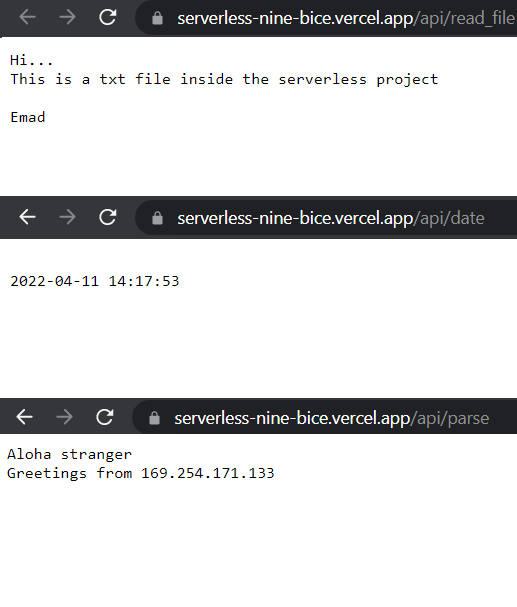
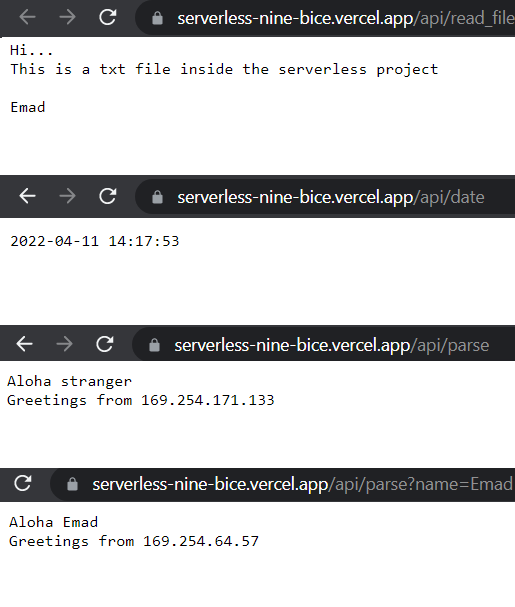
thunder client, and my colleagues' work

diff --git a/api/to_do.py b/api/to_do.py
@@ -1,0 +1,108 @@
+# from Sara
+
+import cgi
+from http.server import BaseHTTPRequestHandler, HTTPServer
+
+
+tasklist = ['Task 1', 'Task 2', 'Task 3', 'Task 4']
+
+
+class requestHandler(BaseHTTPRequestHandler):
+
+    def do_GET(self):
+        """ will handle GET requests and send back the response """
+        if self.path.endswith('/tasklist'):
+            self.send_response(200)
+            self.send_header('Content-type', 'text/html')
+            self.end_headers()
+
+            output = ''
+            output += '<html><body>'
+            output += '<h1>Task List</h1>'
+            output += '<h3> <a href="/tasklist/new"> Add New Task </a> </h3>'
+            for task in tasklist:
+                output += task
+                output += '<a/ href = "tasklist/%s/remove">X</a>' % task
+                output += '</br>'
+            output += '</body></html>'
+
+            self.wfile.write(output.encode())
+
+        if self.path.endswith('/tasklist/new'):
+            self.send_response(200)
+            self.send_header('Content-type', 'text/html')
+            self.end_headers()
+
+            output = ''
+            output += '<html><body>'
+            output += '<h1>Add a new task</h1>'
+            output += '<form method="POST" enctype="multipart/form-data" action="/tasklist/new">'
+            output += '<input name="task" type="text" placeholder="Add a new task">'
+            output += '<input type="submit" value="Submit">'
+            output += '</form>'
+            output += '</body></html>'
+
+            self.wfile.write(output.encode())
+            
+            
+        if self.path.endswith('/remove'):
+            listIDPath  = self.path.split('/')[2]
+            print(listIDPath)
+            
+            self.send_response(301)
+            self.send_header('Content-type', 'text/html')
+            self.end_headers()
+            # tasklist.remove(listIDPath)
+            output = ''
+            output += '<html><body>'
+            output += '<h1>Remove Task: %s</h1>' % listIDPath.replace('%20', ' ')
+            output += '<form method="POST" enctype="multipart/form-data" action="/tasklist/%s/remove">' % listIDPath
+            output += '<input type="submit" value="Remove">'
+            output += '</form>'
+            output += '<a href="/tasklist">Cancel</a>'
+            output += '</body></html>'
+
+            self.wfile.write(output.encode())
+
+    def do_POST(self):
+        if self.path.endswith('/tasklist/new'):
+            ctype, pdict = cgi.parse_header(self.headers.get('content-type'))
+            pdict['boundary'] = bytes(pdict['boundary'], "utf-8")
+            content_len = int(self.headers.get('Content-length'))
+            pdict['CONTENT-LENGTH'] = content_len      
+            if ctype == 'multipart/form-data':
+                fields = cgi.parse_multipart(self.rfile, pdict)
+                new_task = fields.get('task')
+
+                tasklist.append(new_task[0])
+            
+            
+            self.send_response(301)
+            self.send_header('Content-type', 'text/html')
+            self.send_header('Location', '/tasklist')
+            self.end_headers()
+
+        if self.path.endswith('/remove'):
+            listIDPath  = self.path.split('/')[2]
+            ctype, pdict = cgi.parse_header(self.headers.get('content-type'))
+            if ctype == 'multipart/form-data':
+                list_item = listIDPath.replace('%20', ' ') 
+                tasklist.remove(list_item)
+                
+            self.send_response(301)
+            self.send_header('Content-type', 'text/html')
+            self.send_header('Location', '/tasklist')
+            self.end_headers()
+                
+                
+def main():
+    """ this function will start the server and listen for requests """
+    PORT = 9000
+    server_address = ('localhost', PORT)
+    server = HTTPServer(server_address, requestHandler)
+    print('Started httpserver on port %s' % PORT)
+    server.serve_forever()  # will run forever until stopped by user (ctrl+c ) in the terminal
+
+
+if __name__ == '__main__':
+    main()

diff --git a/api/read_json.py b/api/read_json.py
@@ -1,0 +1,56 @@
+# from NourEldeen
+
+from http.server import BaseHTTPRequestHandler, HTTPServer
+import json
+import random
+from urllib import parse
+
+
+with open('data.json') as f:
+    data = json.load(f)
+
+
+def get_random_number():
+    n = random.randint(0, len(data))
+    return n
+
+
+class handler(BaseHTTPRequestHandler):
+    def do_GET(self):
+        self.send_response(200)
+        self.send_header('Content-type', 'text/html')
+        self.end_headers()
+
+        path = self.path
+        url_component = parse.urlsplit(path)
+        query_string_list = parse.parse_qsl(url_component.query)
+        dic = dict(query_string_list)
+
+        output = '<html><body>'
+        output += '<h1>Your Quotes</h1>'
+        try:
+            q_num = int(dic.get('q_num'))
+            for i in range(q_num):
+                quote = data[get_random_number()]['text']
+                output += f'<p>{i+1}- {quote}</p>'.format(i, quote)
+            self.wfile.write(output.encode())
+
+        except:
+            quote = data[get_random_number()]['text']
+            output += f'<p>{quote}</p>'
+            self.wfile.write(output.encode())
+        output += '</body></html>'
+        return
+
+
+def main():
+    # main
+    port = 8000
+    server_address = ('localhost', port)
+    server = HTTPServer(server_address, handler)
+    print(f'Server running on PORT: {port}'.format(port))
+    server.serve_forever()
+
+
+if __name__ == "__main__":
+    main()

diff --git a/api/calender.py b/api/calender.py
@@ -1,0 +1,37 @@
+# From Zaid
+
+from http.server import BaseHTTPRequestHandler
+from datetime import datetime
+from urllib import parse
+import platform
+import calendar
+
+class handler(BaseHTTPRequestHandler):
+
+  def do_GET(self):    
+    
+    path= self.path
+    url_components = parse.urlparse(path)
+    query_string = parse.parse_qsl(url_components.query)
+    dic=dict(query_string)
+    name= dic.get('name')
+    if name:
+      message = f'Hello, {name}!\n'
+    else:
+      message = 'Hello, Stranger!\n' 
+
+    message += f"\n Greetings from Python Version {platform.python_version()} at {datetime.now().strftime('%Y-%m-%d %H:%M:%S')}\n\n"
+    message1 = '\nThis is the datetime Year/Month/Day/Number of Week/Hour/Minute/Second: ' +'\n'
+    message2 = '\nThis is the Calendar for year 2022: ' +'\n\n'
+
+    self.send_response(200)
+    self.send_header('Content-type', 'text/plain')
+    self.end_headers()
+    self.wfile.write(message.encode())
+    self.wfile.write(message1.encode())
+    self.wfile.write(str(datetime.now().strftime('%Y-%m-%d/%W/ %H:%M:%S \n')).encode())
+    self.wfile.write(message2.encode())
+    self.wfile.write(calendar.calendar(2022, 2, 1, 6).encode())
+
+    return
+

diff --git a/api/image.py b/api/image.py
@@ -1,0 +1,25 @@
+# from Batool
+
+from http.server import BaseHTTPRequestHandler
+from urllib import parse
+
+class handler(BaseHTTPRequestHandler):
+
+  def do_GET(self):
+    #parsing the url path’s query string.
+    path = self.path
+    url_components =parse.urlsplit(path)
+    query_string_list = parse.parse_qsl(url_components.query)
+    dic = dict(query_string_list)
+
+    #request status is successful
+    self.send_response(200)
+    self.send_header('Content-type', 'text/plain')
+    self.end_headers()
+    
+    #showing the image on the screen
+    self.path = 'assets/time-pink-floyd.png'
+    content = open(self.path, 'rb').read()
+    self.wfile.write(content)
+    
+    return

diff --git a/api/read_file.py b/api/read_file.py
@@ -1,3 +1,5 @@
+# https://vercel.com/docs/runtimes#advanced-usage/advanced-python-usage
+
 from http.server import BaseHTTPRequestHandler
 from os.path import join
 

diff --git a/README.md b/README.md
@@ -21,6 +21,15 @@ You can visit the website pages by the following:
 - https://serverless-nine-bice.vercel.app/api/read_file
 - https://serverless-nine-bice.vercel.app/api/parse
 
+    After this url you can add a parameter `?name=FirstName`, for example:
+    https://serverless-nine-bice.vercel.app/api/parse?name=Emad
+
 <br>
 
 ![screenshot](./data/Screenshot.png)
+
+<br>
+
+### Thunder Client test
+
+![Thunder Client test](./data/thunder.png)
